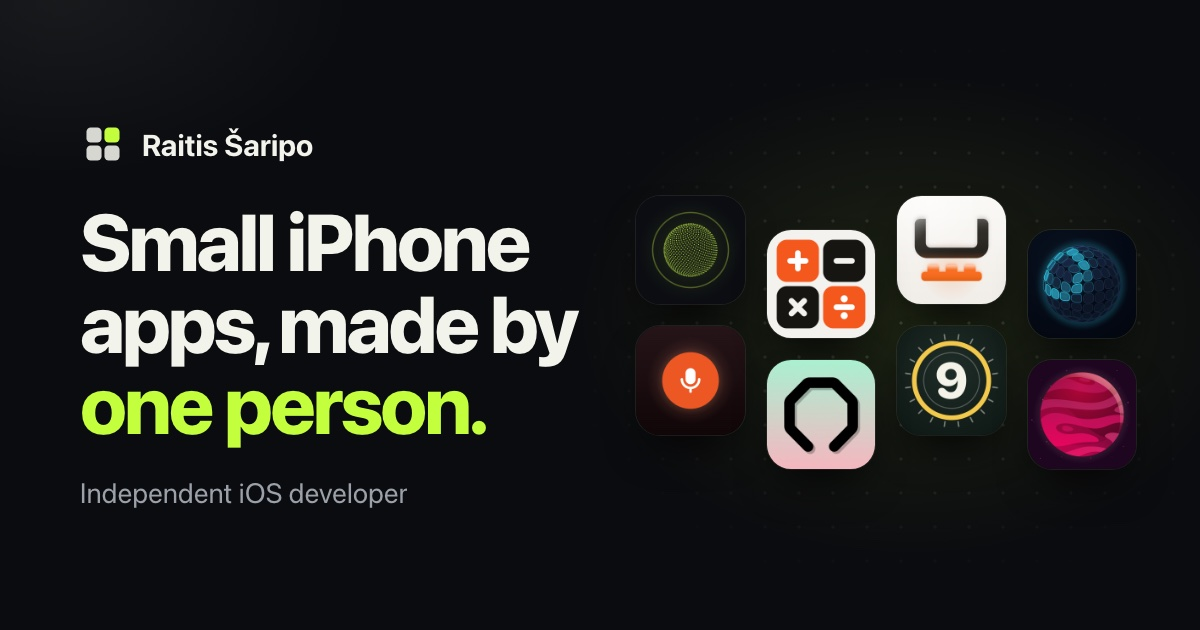
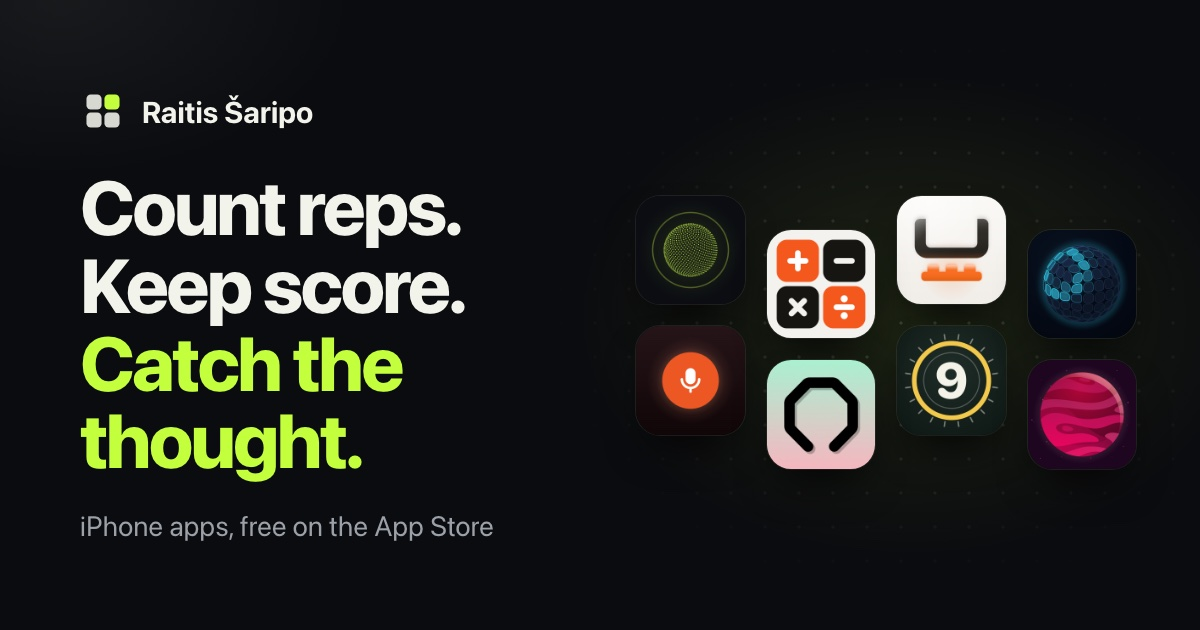
Rewrite hub headline and point "Say hello" at X
New hero: "Count reps. Keep score. Catch the thought." with a shorter intro,
and matching title, description, Open Graph text and social card. The hero
"Say hello" button now opens @RaitisSaripo on X; the X handle is also in the
support section, footer and structured data. Email stays in the support
section. app-ads.txt and the Kitchenette support email are untouched.

Changed region(s): [[0.0617, 0.1508, 0.4933, 0.8746]]

diff --git a/index.html b/index.html
@@ -3,22 +3,23 @@
 <head>
     <meta charset="utf-8" />
     <meta name="viewport" content="width=device-width, initial-scale=1, viewport-fit=cover" />
-    <title>Raitis Šaripo: Independent iOS Developer</title>
-    <meta name="description" content="Small, focused iPhone apps by Raitis Šaripo: Countless, Kitchenette, Blurp, Nine Darter, Sum Rush, Cascade, Oktomatch and Orbit Guard." />
+    <title>Raitis Šaripo: iPhone Apps</title>
+    <meta name="description" content="iPhone apps by Raitis Šaripo: Countless, Kitchenette, Blurp, Nine Darter, Sum Rush, Cascade, Oktomatch and Orbit Guard. Free on the App Store." />
     <meta name="theme-color" content="#0B0C0F" />
     <meta name="color-scheme" content="dark" />
     <link rel="canonical" href="https://raichibald.github.io/" />
 
     <meta property="og:type" content="website" />
     <meta property="og:site_name" content="Raitis Šaripo" />
-    <meta property="og:title" content="Raitis Šaripo: Independent iOS Developer" />
-    <meta property="og:description" content="Small, focused iPhone apps, designed, built and supported by one person." />
+    <meta property="og:title" content="Raitis Šaripo: iPhone Apps" />
+    <meta property="og:description" content="Count reps, keep score, catch the thought. iPhone apps by Raitis &Scaron;aripo, free on the App Store." />
     <meta property="og:url" content="https://raichibald.github.io/" />
     <meta property="og:image" content="https://raichibald.github.io/assets/og.jpg" />
     <meta property="og:image:width" content="1200" />
     <meta property="og:image:height" content="630" />
     <meta property="og:image:alt" content="The icons of eight iPhone apps by Raitis Šaripo" />
     <meta name="twitter:card" content="summary_large_image" />
+    <meta name="twitter:creator" content="@RaitisSaripo" />
 
     <link rel="icon" href="favicon.svg" type="image/svg+xml" />
     <link rel="icon" href="favicon-32.png" type="image/png" sizes="32x32" />
@@ -32,14 +33,16 @@
                         "@type": "Person",
                         "@id": "https://raichibald.github.io/#raitis",
                         "name": "Raitis Šaripo",
-                        "jobTitle": "Independent iOS developer",
-                        "url": "https://raichibald.github.io/"
+                        "url": "https://raichibald.github.io/",
+                        "sameAs": [
+                                "https://x.com/RaitisSaripo"
+                        ]
                 },
                 {
                         "@type": "WebSite",
                         "@id": "https://raichibald.github.io/#site",
                         "url": "https://raichibald.github.io/",
-                        "name": "Raitis Šaripo: iOS apps",
+                        "name": "Raitis Šaripo: iPhone apps",
                         "publisher": {
                                 "@id": "https://raichibald.github.io/#raitis"
                         }
@@ -200,15 +203,15 @@
         <section class="hero">
             <div class="wrap hero-grid">
                 <div class="hero-copy">
-                    <p class="chip"><span class="dot"></span>Independent iOS developer</p>
-                    <h1>Small iPhone apps,<br />made by <span class="volt nb">one person.</span></h1>
+                    <p class="chip"><span class="dot"></span>Apps by Raitis &Scaron;aripo</p>
+                    <h1>Count reps.<br />Keep score.<br /><span class="volt">Catch the thought.</span></h1>
                     <p class="lead" id="about">
-                        I&rsquo;m Raitis &Scaron;aripo. I design, build and support every app here myself, from a
-                        push-up counter that listens through your AirPods to a minesweeper played on a globe.
+                        I&rsquo;m Raitis. I make apps like a push-up counter that listens through your AirPods, a
+                        darts scoreboard where one tap fixes a wrong score, and a minesweeper played on a globe.
                     </p>
                     <div class="cta-row">
                         <a class="btn btn-lg" href="#apps">See the apps</a>
-                        <a class="btn btn-lg btn-ghost" href="mailto:saripo.raitis@gmail.com">Say hello</a>
+                        <a class="btn btn-lg btn-ghost" href="https://x.com/RaitisSaripo" rel="noopener" aria-label="Say hello on X, @RaitisSaripo">Say hello</a>
                     </div>
                 </div>
                 <ul class="wall" aria-hidden="true">
@@ -359,7 +362,8 @@
                     <h2 id="support-title">Support &amp; contact</h2>
                     <p class="section-lead">
                         Questions, bug reports or ideas about any of the apps: write to
-                        <a class="mail" href="mailto:saripo.raitis@gmail.com">saripo.raitis@gmail.com</a>.
+                        <a class="mail" href="mailto:saripo.raitis@gmail.com">saripo.raitis@gmail.com</a>, or find me on X at
+                        <a class="mail" href="https://x.com/RaitisSaripo" rel="noopener">@RaitisSaripo</a>.
                     </p>
                     <p class="support-line">Kitchenette support email - <a class="mail" href="mailto:contact.kitchenette.app@gmail.com">contact.kitchenette.app@gmail.com</a></p>
                     <p class="support-line">Orbit Guard support email - <a class="mail" href="mailto:contact.orbitguard.game@gmail.com">contact.orbitguard.game@gmail.com</a></p>
@@ -416,7 +420,10 @@
     <footer class="site-footer">
         <div class="wrap foot-grid">
             <p class="fine">&copy; 2026 Raitis &Scaron;aripo. This site uses no cookies, analytics or trackers.</p>
-            <a class="fine" href="#top">Back to top</a>
+            <p class="foot-links">
+                <a class="fine" href="https://x.com/RaitisSaripo" rel="noopener">@RaitisSaripo on X</a>
+                <a class="fine" href="#top">Back to top</a>
+            </p>
         </div>
         <div class="wrap">
             <p class="legal">

diff --git a/styles.css b/styles.css
@@ -494,6 +494,11 @@ h4 {
     font-size: 14px;
     color: var(--muted);
 }
+.foot-links {
+    display: flex;
+    flex-wrap: wrap;
+    gap: 6px 22px;
+}
 a.fine {
     text-decoration: none;
 }
